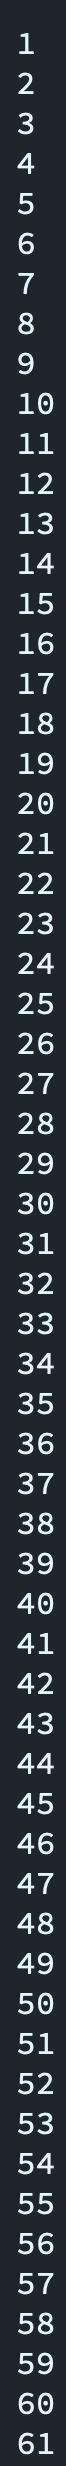
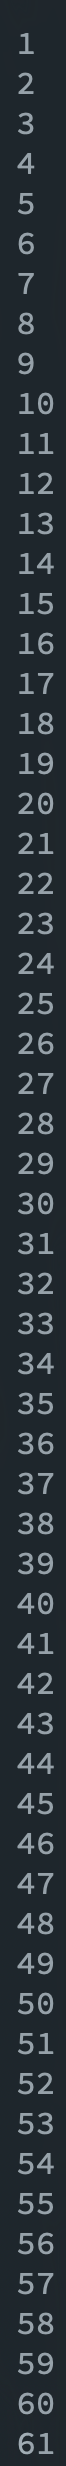
uploading images

Changed region(s): [[0.2727, 0.0, 0.5152, 0.9992], [0.5758, 0.1561, 0.8182, 0.9992]]

diff --git a/README.md b/README.md
@@ -1,1 +1,5 @@
-# HCI-autocomplete
+# splendidkoalas
+
+![Code Editor](images/CodeEditor2.png)
+
+
